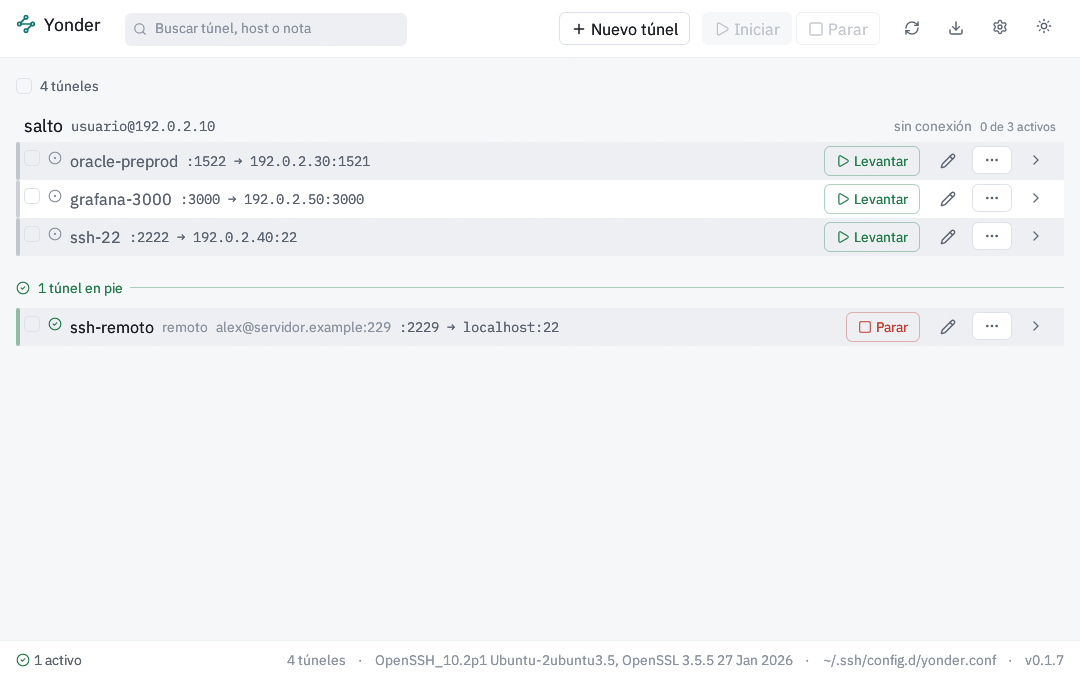
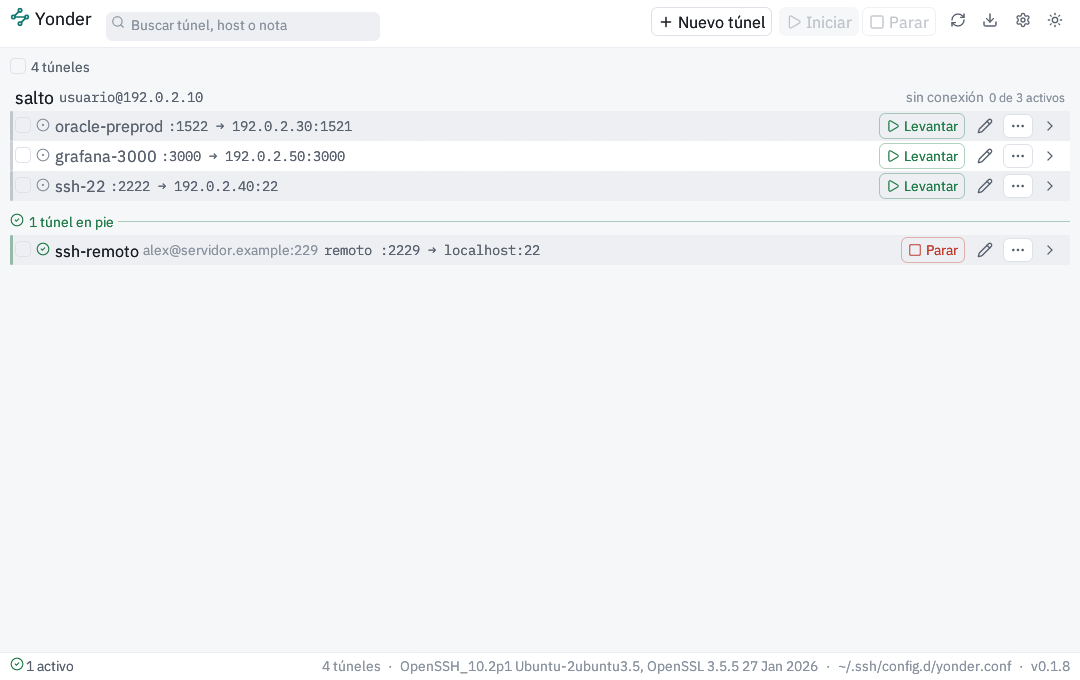
Versión 0.1.8: sin congelarse al conectar, y el alias en gris no se repite
Lo visible de esta versión es lo que ya no pasa: la ventana no se queda
congelada mientras un host tarda en contestar, Conectando se ve de
verdad en la lista, y la fila sin cabecera ya no dice el mismo nombre
dos veces cuando el alias es el nombre visible.

Capturas regeneradas con la versión que ilustran, escena de mentira
sobre direcciones de documentación, como siempre.

diff --git a/src/ui/lista.rs b/src/ui/lista.rs
@@ -367,7 +367,12 @@ fn fila(
                         // cabecera —abajo es un grupo de uno— y perdía ese dato
                         // justo en el momento de necesitarlo.
                         if solo {
-                            ui.label(tema::tenue(&tema, &grupo.alias));
+                            // Salvo cuando el alias ES el nombre visible: un
+                            // reenvío sin nombre propio en un host de un solo
+                            // túnel repetiría la misma palabra en gris al lado.
+                            if tunel.reenvio.nombre_visible() != grupo.alias {
+                                ui.label(tema::tenue(&tema, &grupo.alias));
+                            }
                             if let Some(host) = &grupo.host {
                                 ui.label(tema::tenue(&tema, host.destino_completo()));
                             }
